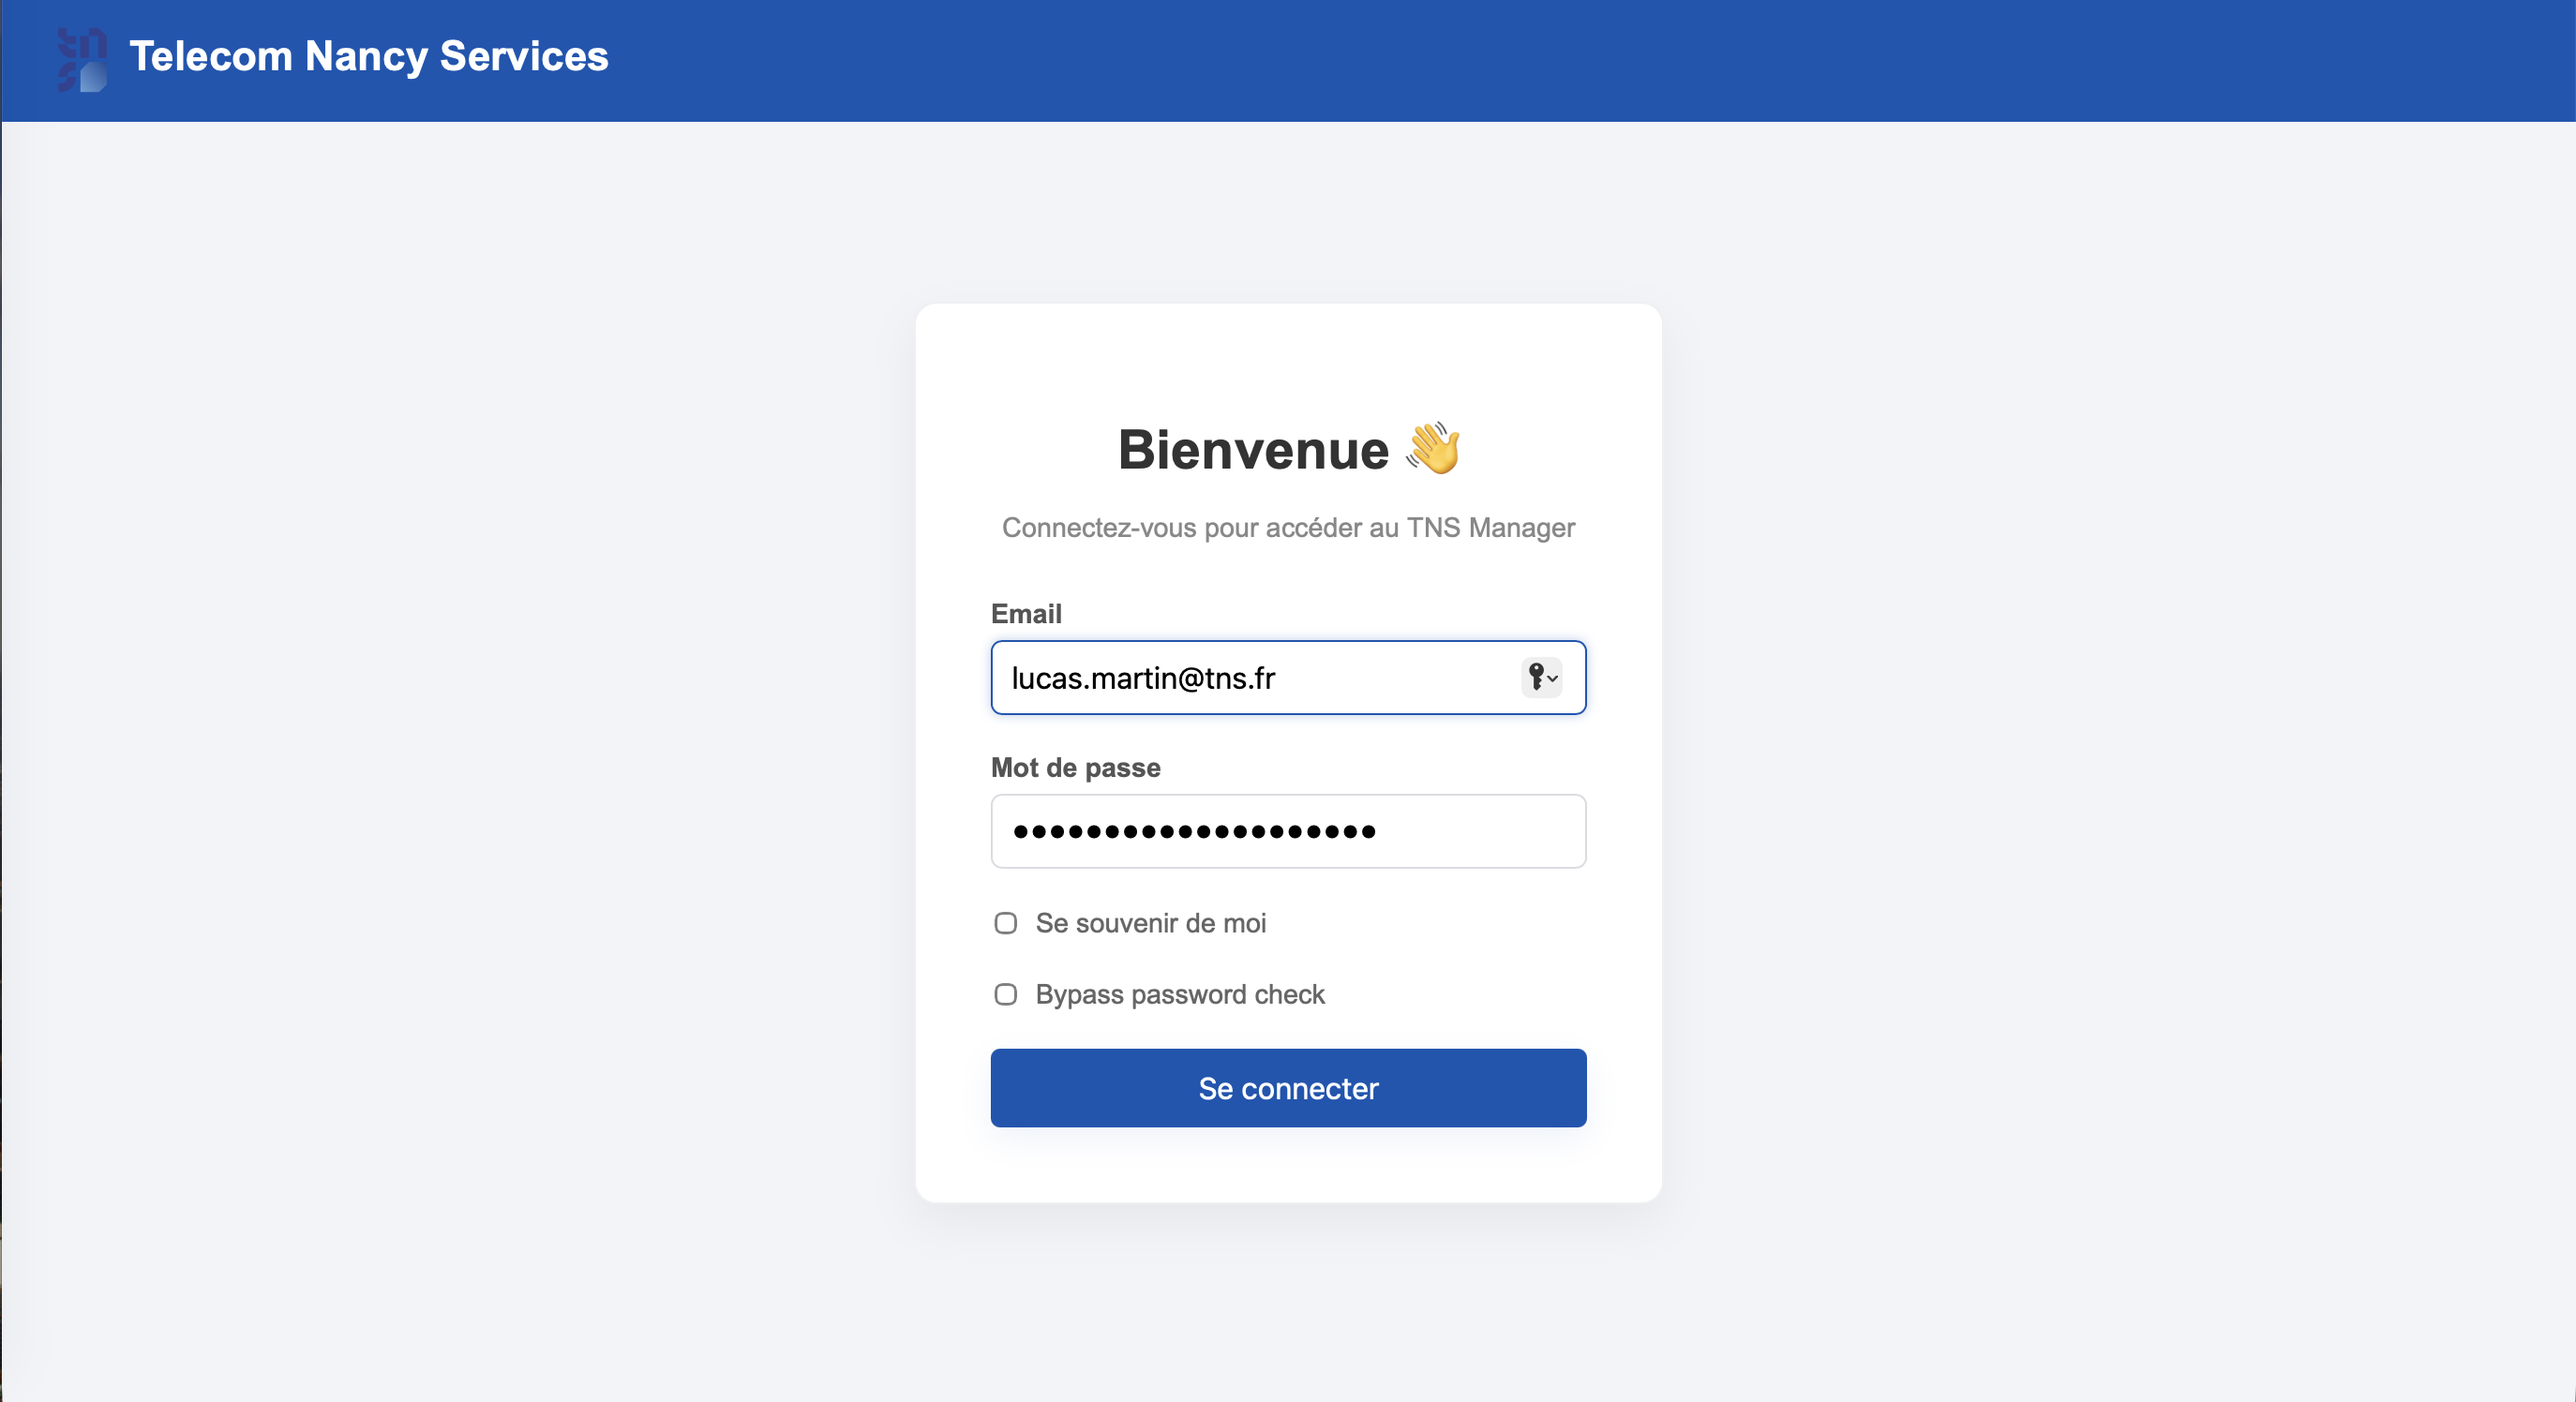
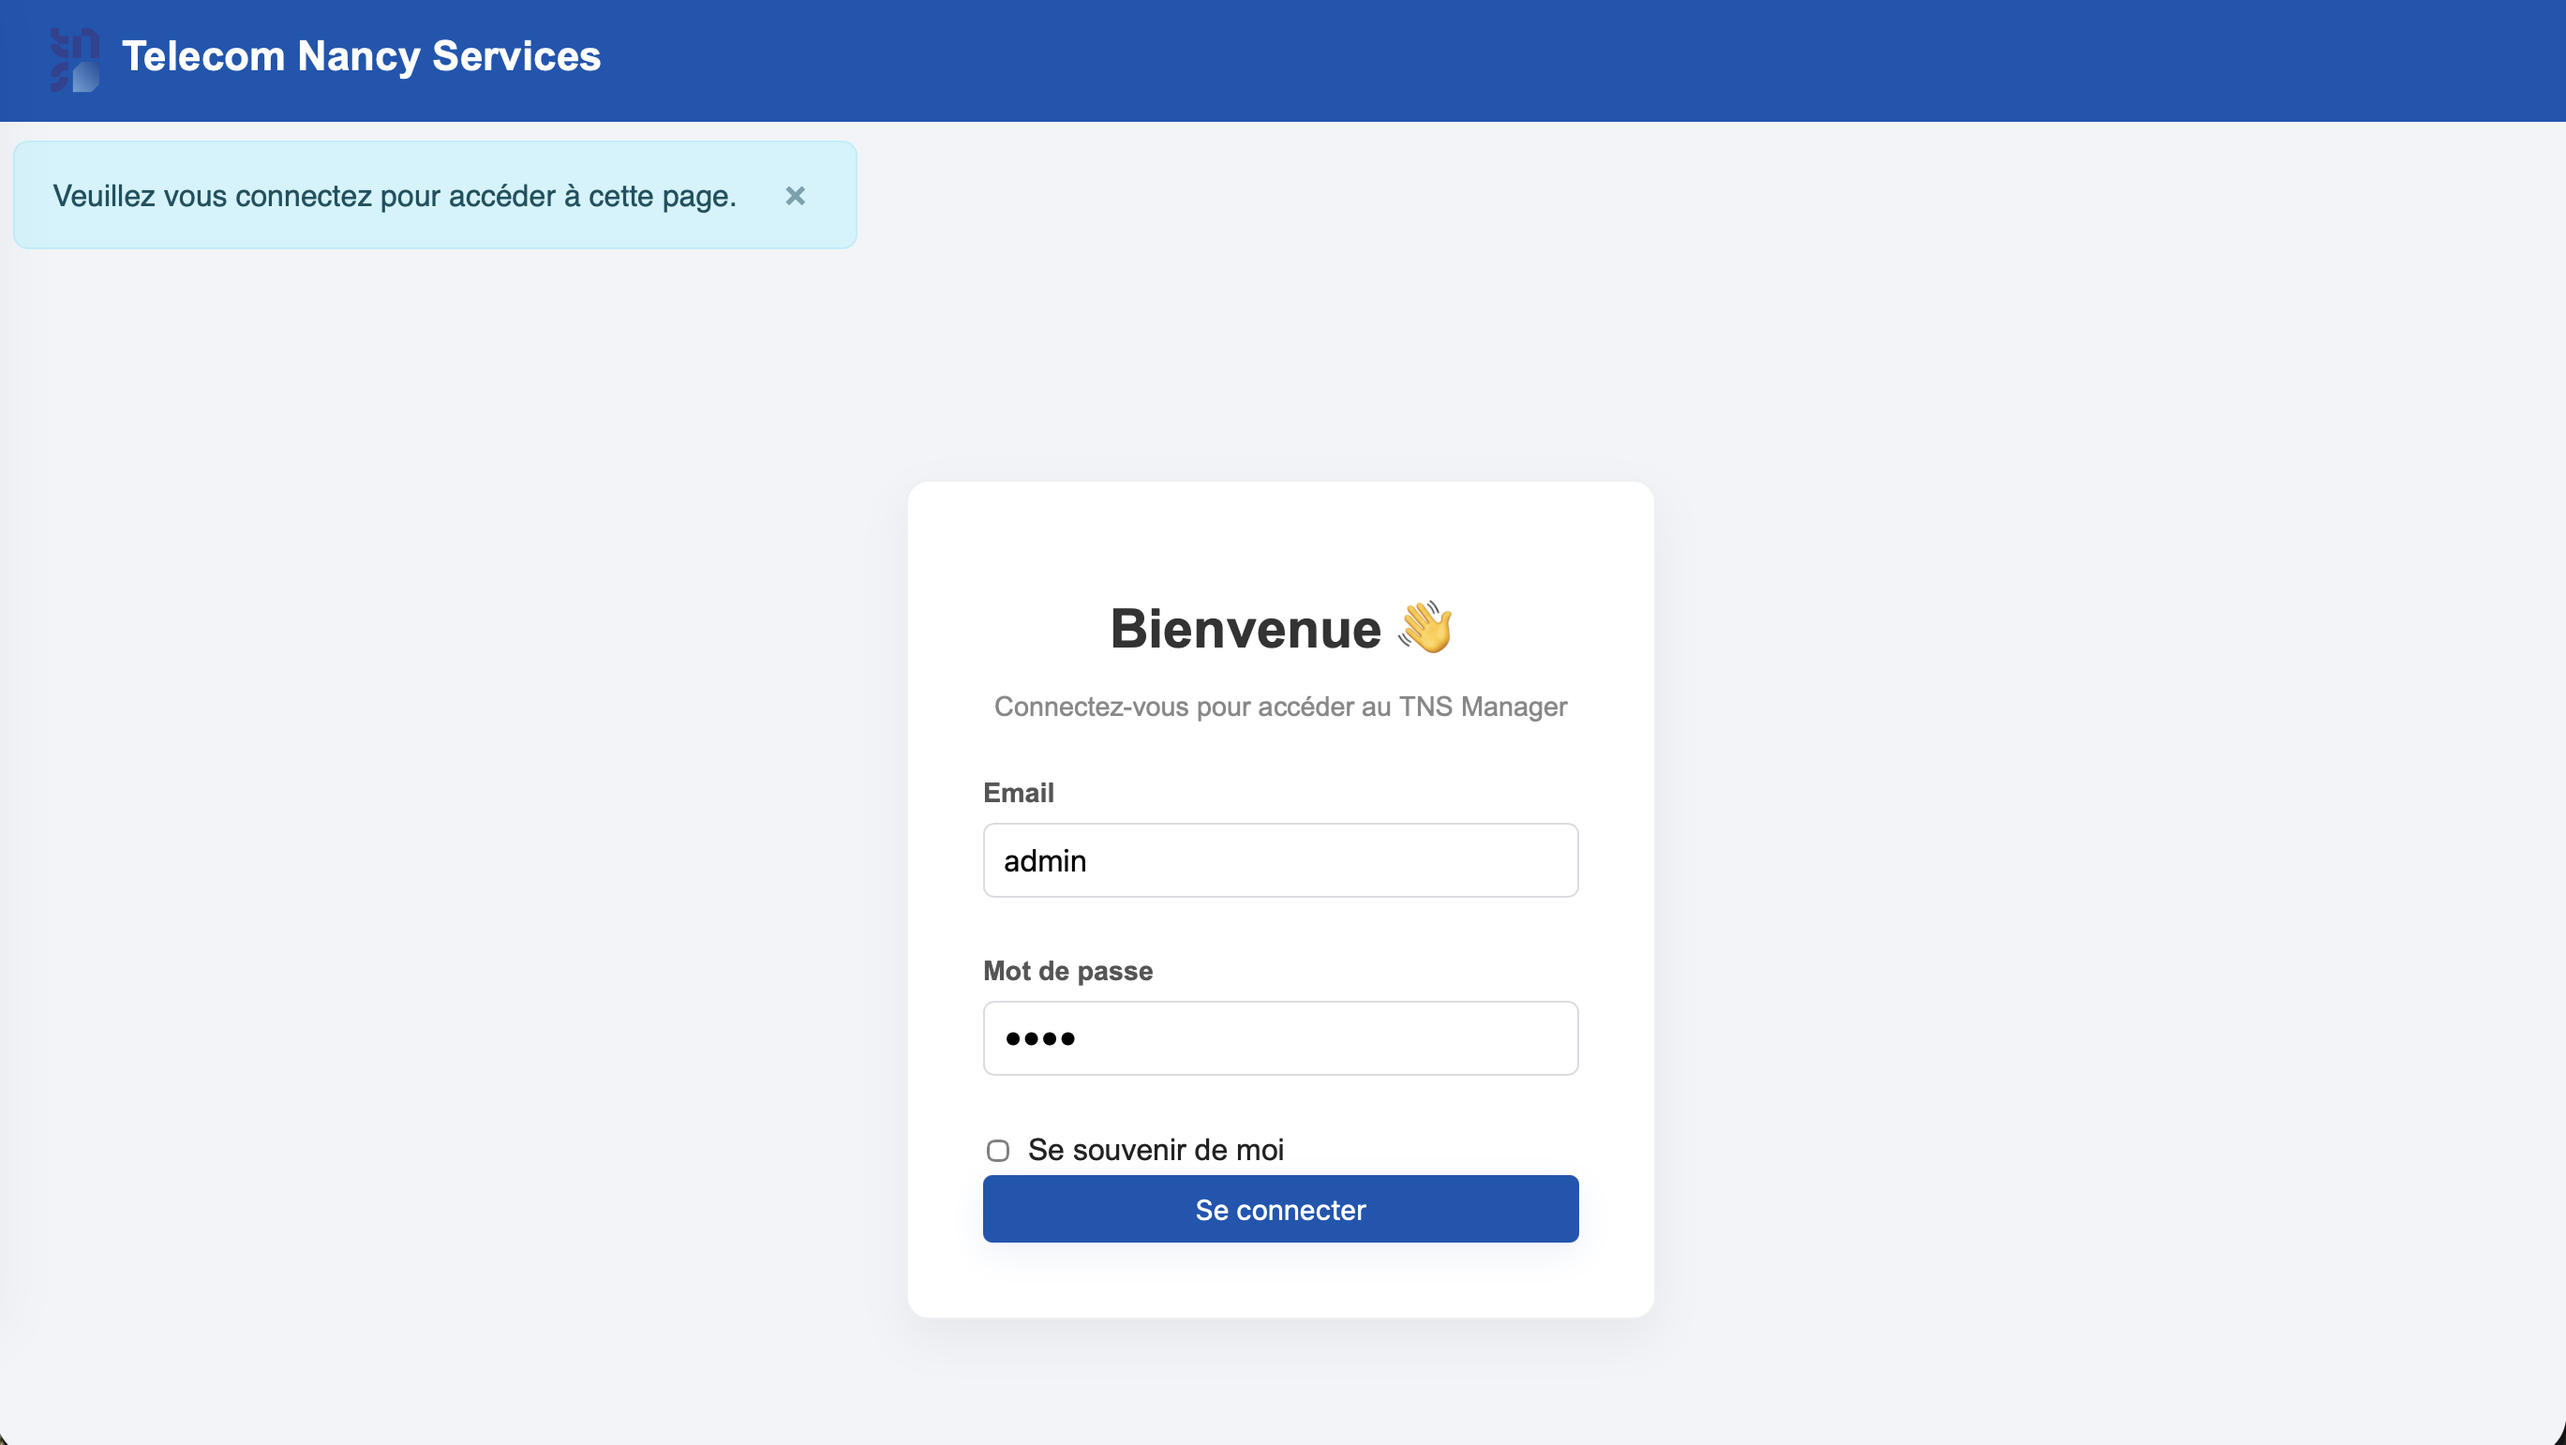
Update user guide and change color to red for button delete projet

diff --git a/app/templates/details_projet.html b/app/templates/details_projet.html
@@ -60,7 +60,7 @@
                 {% endif %}
                 
                 <form action="{{ url_for('projets.supprimer_projet', id=projet.id_projet) }}" method="POST" onsubmit="return confirm('Êtes-vous sûr de vouloir supprimer ce projet ? Cela supprimera toutes les données associées (jalons, etc.)');">
-                    <button type="submit" class="btn" style="display:block; width:100%; text-align:center;">
+                    <button type="submit" class="btn" style="display:block; width:100%; text-align:center;background-color: #e74c3c;">
                         🗑 Supprimer le projet
                     </button>
                 </form>

diff --git a/docs/Guide_utilisateur.md b/docs/Guide_utilisateur.md
@@ -10,7 +10,7 @@ Différents onglets s'offriront à vous en haut de la page tout au long de votre
 
 Lors de votre arrivée sur l'application, vous atterirez sur une page d'authentification : entrez votre email et votre mot de passe.
 
-Note : pour le test de l'application, vous pouvez utiliser "lucas.martin@tns.fr" comme email et "30Q2M4G7D3rs&Q*rMCMP" comme mot de passe admin, en cochant **Bypass password check**.
+Note : pour le test de l'application, vous pouvez utiliser "admin" comme email et "pass" comme mot de passe admin.
 
 ![Page d'accueil](images_user_guide/login_admin.png)
 
@@ -49,17 +49,17 @@ Sur cette page, vous pourrez voir la liste des clients de la junior-entreprise, 
 
 Chaque client possède des coordonnées ajustables : adresse mail et numéro de téléphone.
 
+![Détails d'un client](images_user_guide/detail_client.png)
+
 Vous avez également un aperçu des projets commandités par ce client.
 
-![Projets associés à un client](images_user_guide/projets_Saint_Seb.png)
+Il est possible d'historiser une interaction avec ce même client sur sa page.
+Toutes les interactions avec ce client sont visibles plus bas.
 
-Il est possible d'historiser une interaction avec ce même client sur sa page : 
-
-![Nouvelle interaction client](images_user_guide/interaction_client.png)
+![Historique interactions d'un client](images_user_guide/interactions_client.png)
 
 Enfin, modifier les informations relatives à un client est possible en cliquant sur le bouton "Modifier".
 
-![Bouton modifier un client](images_user_guide/modifier_client.png)
 
 ## Gestion des projets
 
@@ -92,6 +92,7 @@ Parmi les actions possibles, trois options s'offrent à vous :
 - Afficher le Kanban
 - Modifer les détails du projet
 - Effectuer un matching pour voir quels intervenants seraient le plus appropriés pour cette mission
+- Supprimer le projet
 
 ### Kanban d'un projet
 
